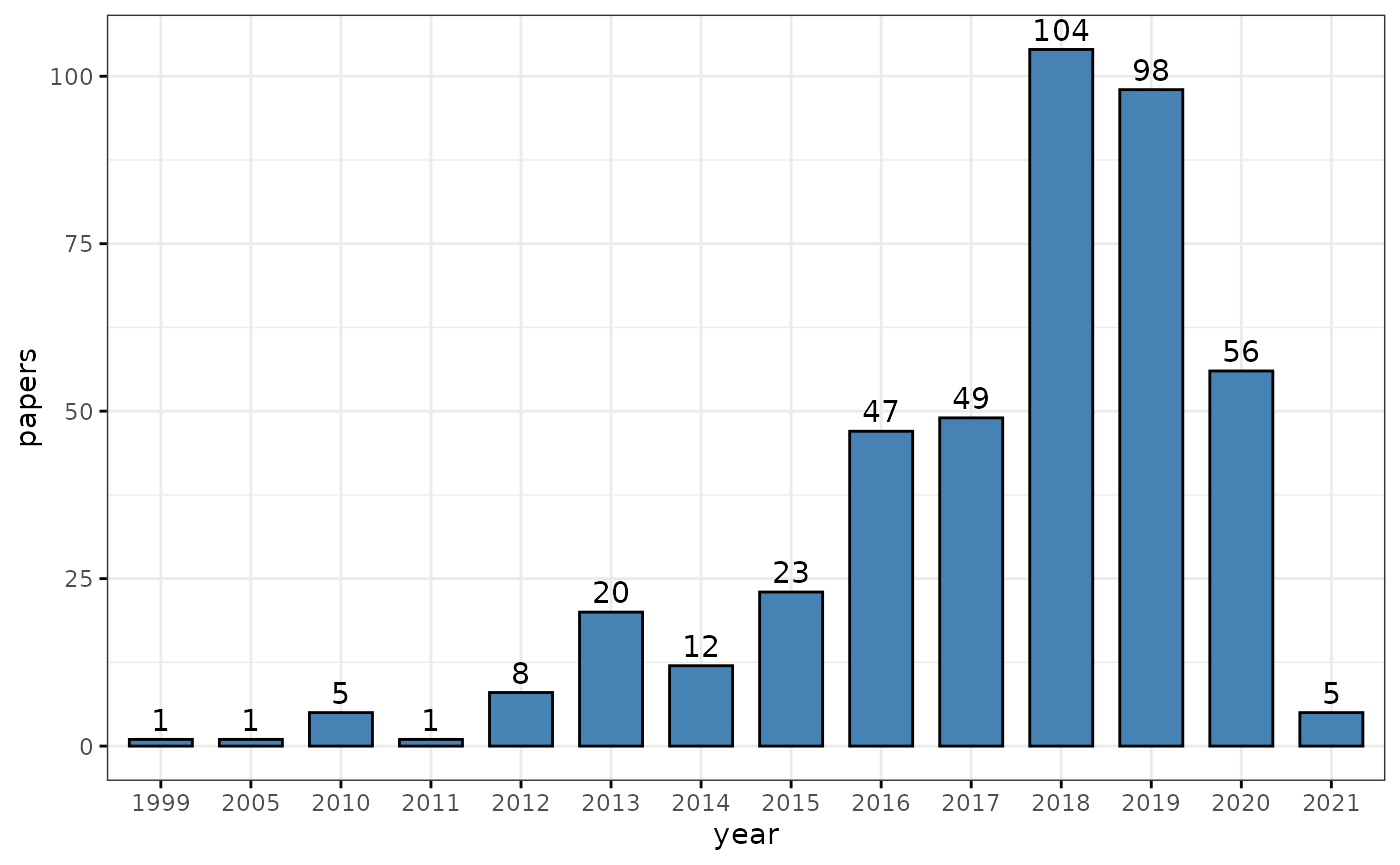
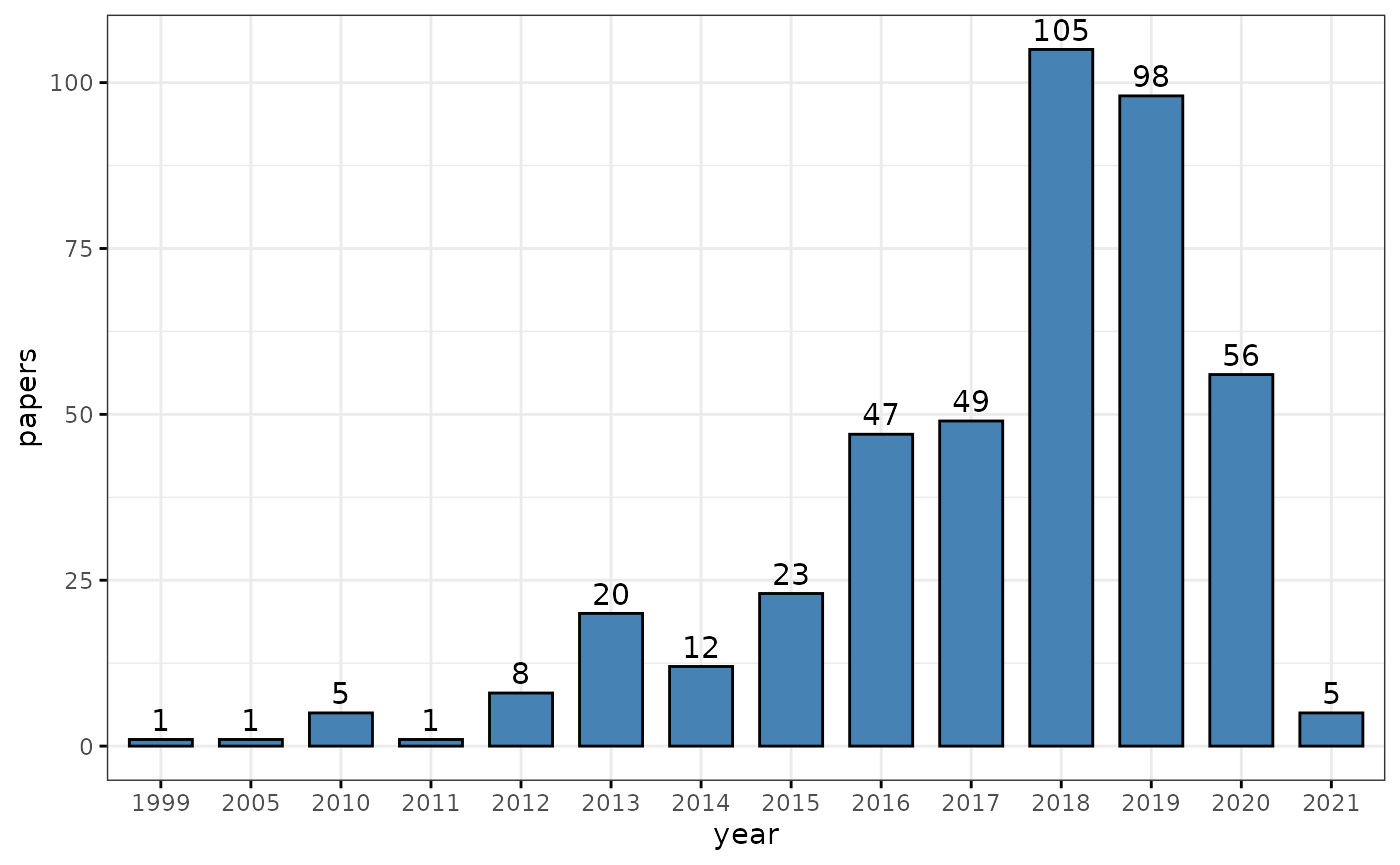
Deploying to gh-pages from  @ 73223ce294398b5d8837817862473400aee4ad90 🚀

diff --git a/articles/BugSigDBStats.html b/articles/BugSigDBStats.html
@@ -85,7 +85,7 @@
 <p>Get bulk export from bugsigdb.org:</p>
 <div class="sourceCode" id="cb2"><pre class="downlit">
 <span class="va">full.dat</span> <span class="op">&lt;-</span> <span class="fu">bugsigdbr</span><span class="fu">::</span><span class="fu"><a href="https://rdrr.io/pkg/bugsigdbr/man/importBugSigDB.html">importBugSigDB</a></span><span class="op">(</span><span class="op">)</span></pre></div>
-<pre><code>## using temporary cache /tmp/Rtmp5csr8N/BiocFileCache</code></pre>
+<pre><code>## using temporary cache /tmp/Rtmpux8L2q/BiocFileCache</code></pre>
 <pre><code>## 
 ## ── Column specification ────────────────────────────────────────────────────────
 ## cols(
@@ -129,7 +129,7 @@
 ## )</code></pre>
 <div class="sourceCode" id="cb7"><pre class="downlit">
 <span class="fu"><a href="https://rdrr.io/r/base/dim.html">dim</a></span><span class="op">(</span><span class="va">full.dat</span><span class="op">)</span></pre></div>
-<pre><code>## [1] 1754   45</code></pre>
+<pre><code>## [1] 1755   45</code></pre>
 <div class="sourceCode" id="cb9"><pre class="downlit">
 <span class="fu"><a href="https://rdrr.io/r/base/colnames.html">colnames</a></span><span class="op">(</span><span class="va">full.dat</span><span class="op">)</span></pre></div>
 <pre><code>##  [1] "Study"                      "Study design"              
@@ -163,10 +163,10 @@
 <div class="sourceCode" id="cb11"><pre class="downlit">
 <span class="va">pmids</span> <span class="op">&lt;-</span> <span class="fu"><a href="https://rdrr.io/r/base/unique.html">unique</a></span><span class="op">(</span><span class="va">full.dat</span><span class="op">[</span>,<span class="st">"PMID"</span><span class="op">]</span><span class="op">)</span>
 <span class="fu"><a href="https://rdrr.io/r/base/length.html">length</a></span><span class="op">(</span><span class="va">pmids</span><span class="op">)</span></pre></div>
-<pre><code>## [1] 435</code></pre>
+<pre><code>## [1] 436</code></pre>
 <div class="sourceCode" id="cb13"><pre class="downlit">
 <span class="fu"><a href="https://rdrr.io/r/base/nrow.html">nrow</a></span><span class="op">(</span><span class="va">full.dat</span><span class="op">)</span></pre></div>
-<pre><code>## [1] 1754</code></pre>
+<pre><code>## [1] 1755</code></pre>
 <p>Publication date of the curated papers:</p>
 <div class="sourceCode" id="cb15"><pre class="downlit">
 <span class="va">pmids</span> <span class="op">&lt;-</span> <span class="va">pmids</span><span class="op">[</span><span class="op">!</span><span class="fu"><a href="https://rdrr.io/r/base/NA.html">is.na</a></span><span class="op">(</span><span class="va">pmids</span><span class="op">)</span><span class="op">]</span>
@@ -200,7 +200,7 @@
 <p>Papers containing only empty UP and DOWN signatures (under curation?):</p>
 <div class="sourceCode" id="cb20"><pre class="downlit">
 <span class="fu"><a href="https://rdrr.io/r/base/sets.html">setdiff</a></span><span class="op">(</span><span class="va">pmids</span>, <span class="fu"><a href="https://rdrr.io/r/base/unique.html">unique</a></span><span class="op">(</span><span class="va">dat</span><span class="op">[</span>,<span class="st">"PMID"</span><span class="op">]</span><span class="op">)</span><span class="op">)</span></pre></div>
-<pre><code>## [1] 32295867 32937864 32415070 33264437 25784074 32728349</code></pre>
+<pre><code>## [1] 32295867 32937864 32415070 33264437 25784074 32728349 29483910</code></pre>
 <p>Progress over time:</p>
 <div class="sourceCode" id="cb22"><pre class="downlit">
 <span class="va">dat</span><span class="op">[</span>,<span class="st">"Curated date"</span><span class="op">]</span> <span class="op">&lt;-</span> <span class="fu"><a href="https://rdrr.io/r/base/character.html">as.character</a></span><span class="op">(</span><span class="fu">lubridate</span><span class="fu">::</span><span class="fu"><a href="http://lubridate.tidyverse.org/reference/ymd.html">dmy</a></span><span class="op">(</span><span class="va">dat</span><span class="op">[</span>,<span class="st">"Curated date"</span><span class="op">]</span><span class="op">)</span><span class="op">)</span>
